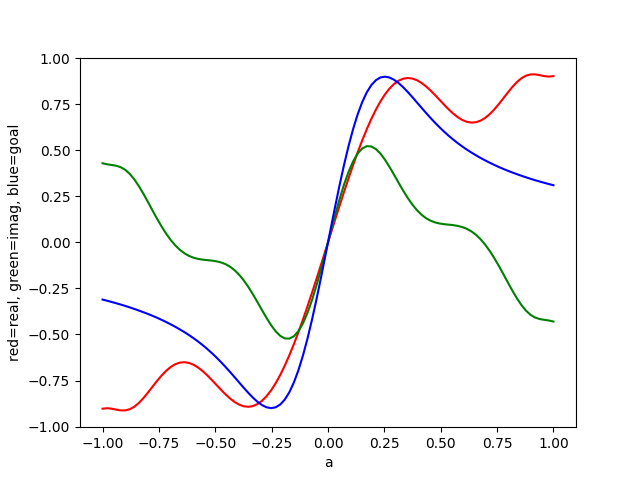
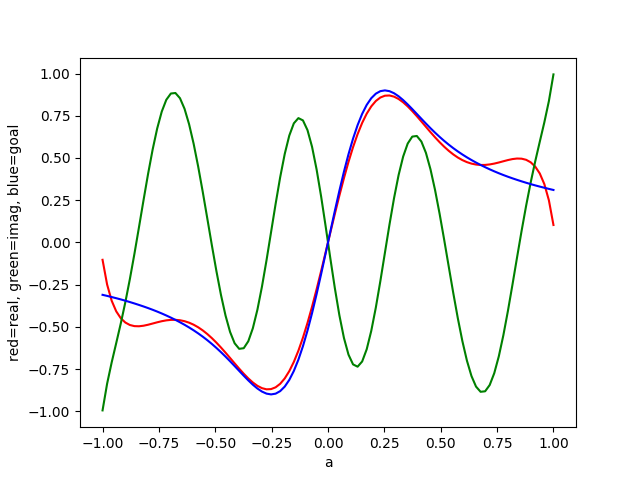
use  --align-first-point-phase in example

diff --git a/README.md b/README.md
@@ -40,20 +40,16 @@ This package also plots the QSP response function, and can be run from the comma
 
 ![Example QSP response function for 1/a](https://github.com/ichuang/pyqsp/blob/master/docs/IMAGE-sample-qsp-response-for-one-over-x-kappa3.png?raw=true)
 
-This was generated by running `pyqsp -plot invert`, which generated the following text output:
+This was generated by running `pyqsp -plot --align-first-point-phase invert`, which generated the following text output:
 
 ```
 b=20, j0=10
 [PolyOneOverX] minimum [-2.90002589] is at [-0.25174082]: normalizing
-
 Laurent P poly 0.0002108924030879319 * w ^ (-21) + -0.0006894043260278334 * w ^ (-19) + 0.001994436843136674 * w ^ (-17) + -0.005148265426149545 * w ^ (-15) + 0.011941126989562179 * w ^ (-13) + -0.02504164571900347 * w ^ (-11) + 0.04774921151669176 * w ^ (-9) + -0.08322978307559126 * w ^ (-7) + 0.1333200017468883 * w ^ (-5) + -0.1973241700493915 * w ^ (-3) + 0.2714342596621151 * w ^ (-1) + 0.2714342596621151 * w ^ (1) + -0.1973241700493915 * w ^ (3) + 0.1333200017468883 * w ^ (5) + -0.08322978307559126 * w ^ (7) + 0.04774921151669176 * w ^ (9) + -0.02504164571900347 * w ^ (11) + 0.011941126989562179 * w ^ (13) + -0.005148265426149545 * w ^ (15) + 0.001994436843136674 * w ^ (17) + -0.0006894043260278334 * w ^ (19) + 0.0002108924030879319 * w ^ (21)
-
-Laurent Q poly -0.0002711180207289607 * w ^ (-21) + 0.0014190000891851067 * w ^ (-19) + -0.0067071077109120535 * w ^ (-17) + 0.01881638664605895 * w ^ (-15) + -0.04516259618171935 * w ^ (-13) + 0.07423274435871664 * w ^ (-11) + -0.08546053640126007 * w ^ (-9) + 0.06132900719414251 * w ^ (-7) + 0.08581139151694207 * w ^ (-5) + 0.04403172522025319 * w ^ (-3) + 0.09967997085040846 * w ^ (-1) + 0.8092131864703784 * w ^ (1) + 0.04791085917765961 * w ^ (3) + -0.07487223176745192 * w ^ (5) + -0.12998230141504297 * w ^ (7) + 0.033228235535885234 * w ^ (9) + 0.014025597044430077 * w ^ (11) + 0.00820149743816714 * w ^ (13) + -0.004424256854819171 * w ^ (15) + -0.000510269630899442 * w ^ (17) + -0.00012541794422748365 * w ^ (19) + 0.0002052025062603234 * w ^ (21)
-
-Laurent Pprime poly -6.02256176410288e-05 * w ^ (-21) + 0.0007295957631572733 * w ^ (-19) + -0.00471267086777538 * w ^ (-17) + 0.013668121219909405 * w ^ (-15) + -0.03322146919215717 * w ^ (-13) + 0.049191098639713174 * w ^ (-11) + -0.03771132488456831 * w ^ (-9) + -0.021900775881448745 * w ^ (-7) + 0.21913139326383035 * w ^ (-5) + -0.1532924448291383 * w ^ (-3) + 0.37111423051252357 * w ^ (-1) + 1.0806474461324935 * w ^ (1) + -0.1494133108717319 * w ^ (3) + 0.058447769979436376 * w ^ (5) + -0.21321208449063422 * w ^ (7) + 0.08097744705257699 * w ^ (9) + -0.011016048674573392 * w ^ (11) + 0.02014262442772932 * w ^ (13) + -0.009572522280968717 * w ^ (15) + 0.001484167212237232 * w ^ (17) + -0.000814822270255317 * w ^ (19) + 0.0004160949093482553 * w ^ (21)
-
-[QuantumSignalProcessingWxPhases] Error in reconstruction from QSP angles = 0.3658854185585367
-QSP angles = [-2.282964296335766, 2.352630021706279, -2.0825361970567524, 1.1149719751312943, -0.5433666702912296, 0.5493630356304146, -0.05029833729941813, -1.1075990479013402, 2.2123416140532672, -2.488798687348696, 2.518236605553014, -0.6884952969916724, 0.6054630387924009, -0.8815180671764199, -1.1214186956217687, -0.03226597482121529, 0.6265609477146372, -0.5405722373921156, 1.0408188247316708, 1.119086595448087, -0.7534831411549547, -0.010255641885841577]
+Laurent Q poly -2.784691352688532e-05 * w ^ (-21) + -3.467046922689296e-06 * w ^ (-19) + -0.00023447352272530086 * w ^ (-17) + 0.00018731079814912242 * w ^ (-15) + -0.0007159634932856078 * w ^ (-13) + 0.0032821300323626736 * w ^ (-11) + -0.001907488898700853 * w ^ (-9) + 0.012591630667616198 * w ^ (-7) + -0.02371053103573988 * w ^ (-5) + -0.016629567619072996 * w ^ (-3) + -0.18519029619384528 * w ^ (-1) + -0.20476480667058175 * w ^ (1) + -0.5374170003848409 * w ^ (3) + -0.2638332742746844 * w ^ (5) + 0.21212227077358078 * w ^ (7) + 0.27748656462486654 * w ^ (9) + -0.34978762979573563 * w ^ (11) + 0.17888109364117422 * w ^ (13) + -0.07649917245226195 * w ^ (15) + 0.03551004671728361 * w ^ (17) + -0.011926352140796492 * w ^ (19) + 0.001997855069006951 * w ^ (21)
+Laurent Pprime poly 0.00018304548956104657 * w ^ (-21) + -0.0006928713729505227 * w ^ (-19) + 0.001759963320411373 * w ^ (-17) + -0.0049609546280004226 * w ^ (-15) + 0.01122516349627657 * w ^ (-13) + -0.021759515686640796 * w ^ (-11) + 0.0458417226179909 * w ^ (-9) + -0.07063815240797505 * w ^ (-7) + 0.10960947071114842 * w ^ (-5) + -0.2139537376684645 * w ^ (-3) + 0.08624396346826982 * w ^ (-1) + 0.06666945299153335 * w ^ (1) + -0.7347411704342324 * w ^ (3) + -0.1305132725277961 * w ^ (5) + 0.12889248769798953 * w ^ (7) + 0.3252357761415583 * w ^ (9) + -0.3748292755147391 * w ^ (11) + 0.1908222206307364 * w ^ (13) + -0.0816474378784115 * w ^ (15) + 0.037504483560420285 * w ^ (17) + -0.012615756466824325 * w ^ (19) + 0.0022087474720948828 * w ^ (21)
+[QuantumSignalProcessingWxPhases] Error in reconstruction from QSP angles = 0.4862234440482484
+QSP angles = [0.11177647198529908, 0.321286291382733, -2.449109005349844, 0.5475854935639934, -0.23068701778999645, 1.852723853663707, -0.1638598380129409, -0.031620025684050396, -0.3018780297835489, -1.8740083256355018, 0.6314873861312269, -0.036881744534211114, 1.300525766122238, 0.3073180685644643, -0.23974313142278042, 0.09536754986888613, -1.188342341212731, -0.6092537117168764, 0.4850840958947118, 0.8800119831449805, 0.4163653216360098, 2.480415494993986]
 ```
 
 ## Code design
